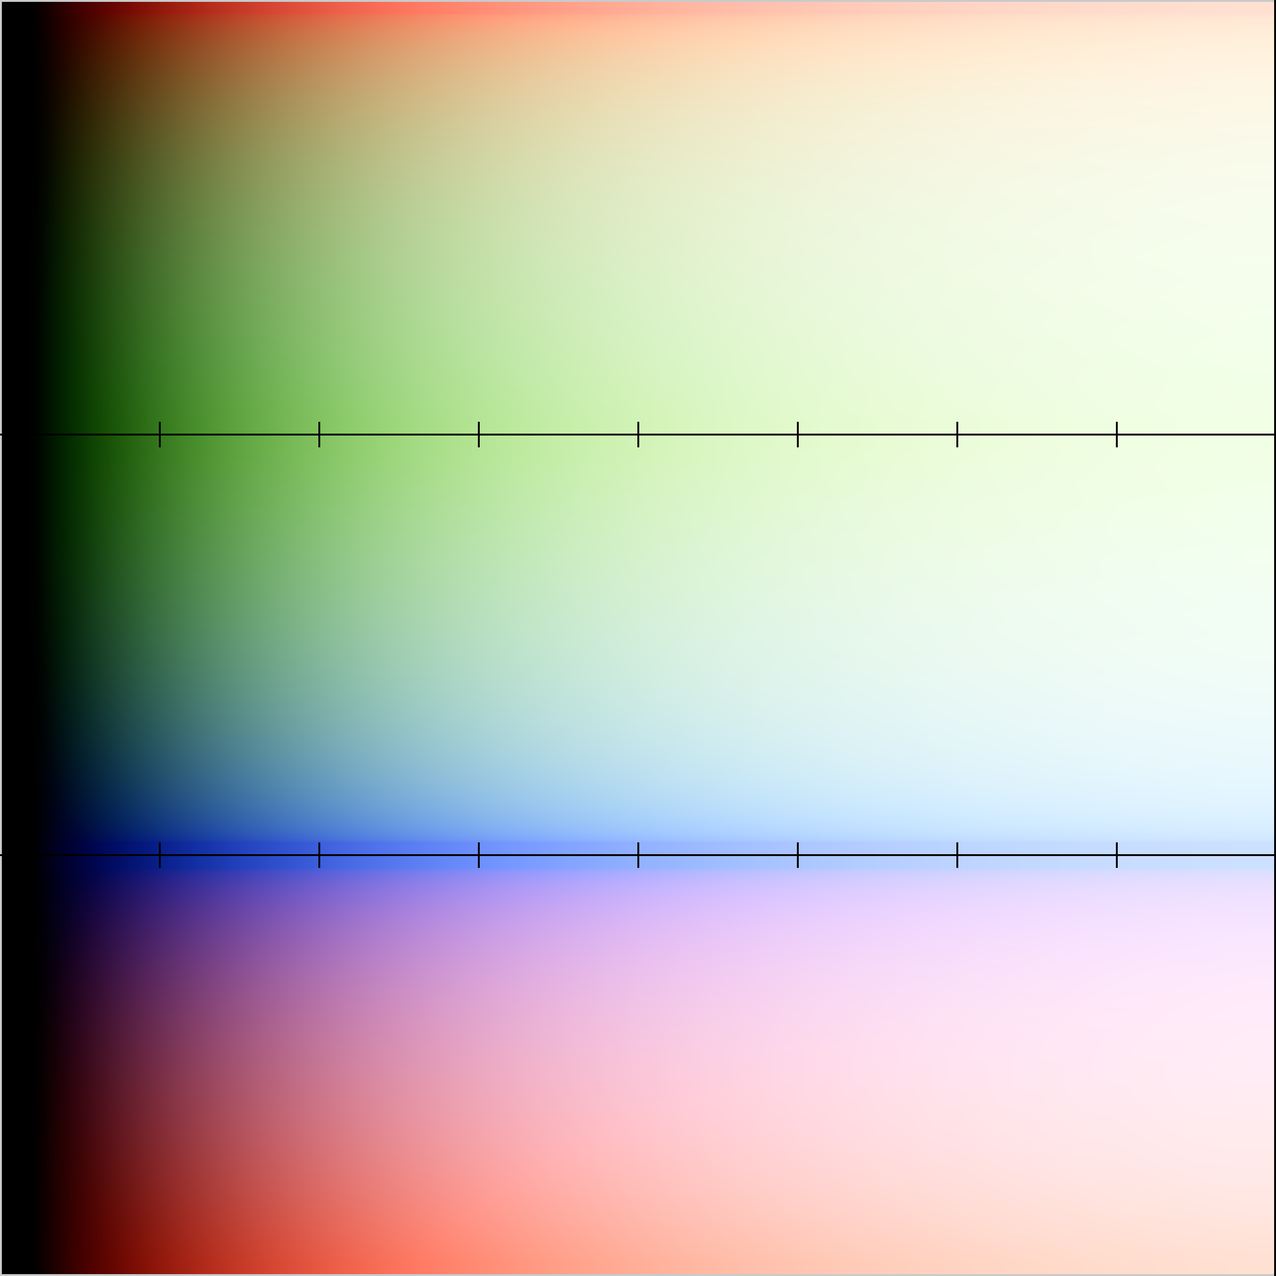
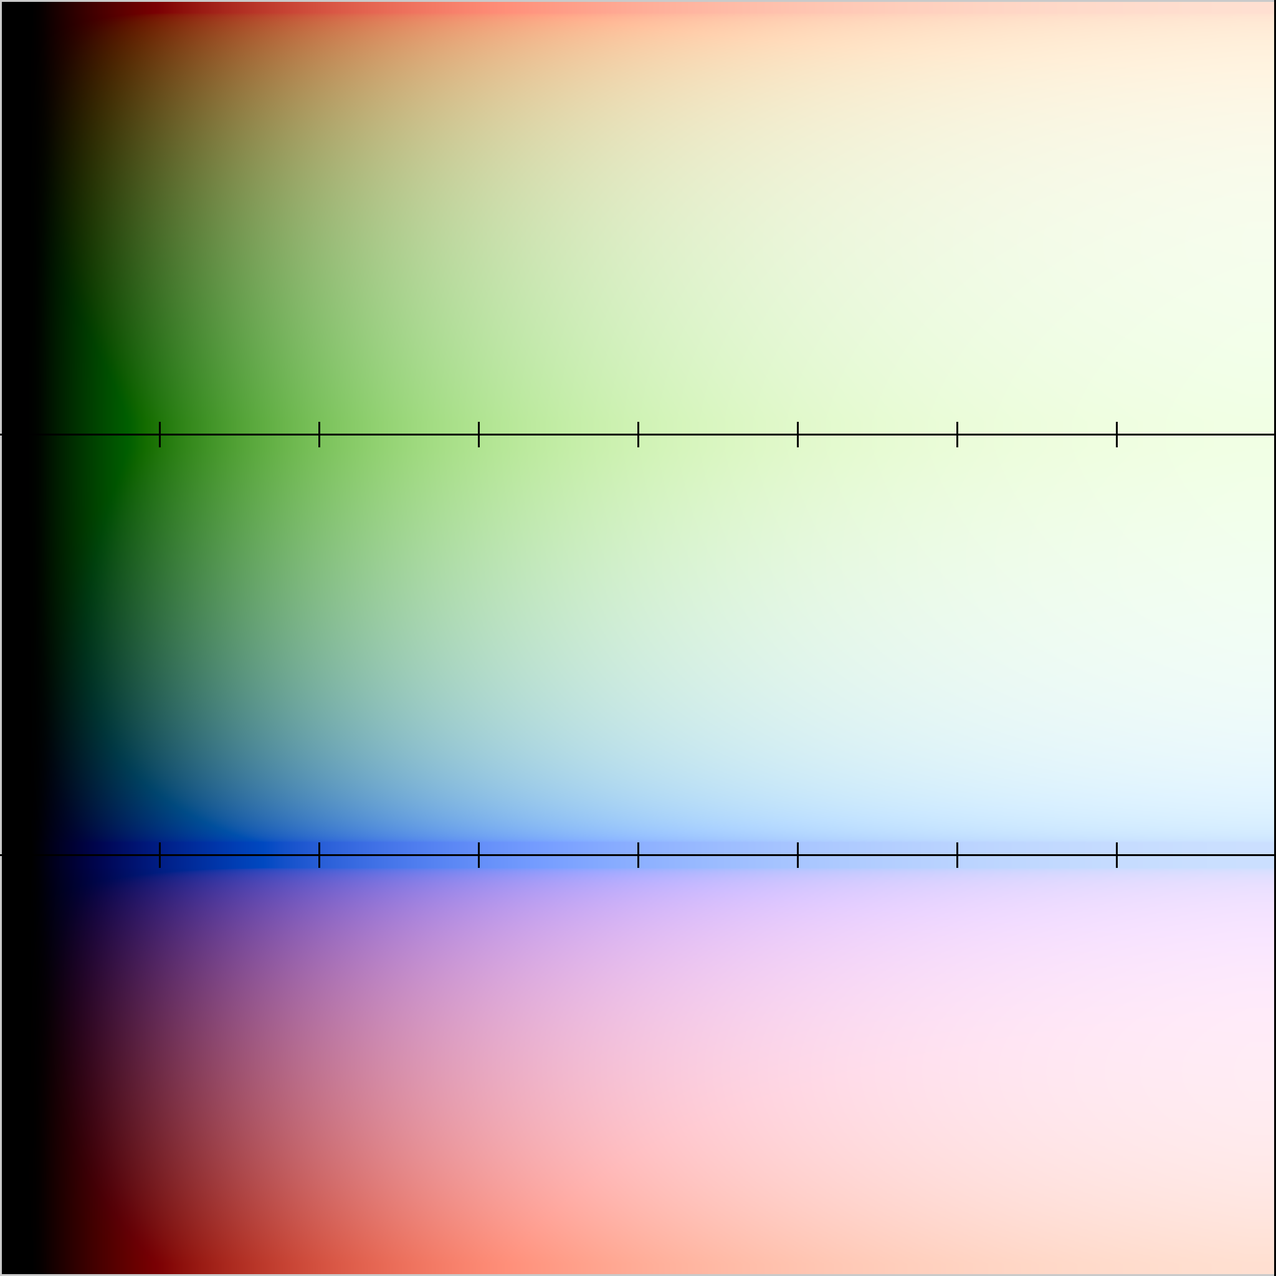
Regenerated with new AgX implementation 3f2b9436b1563a408ebc8fe41fdb164d147760d7

Changed region(s): [[0.0625, 0.2812, 0.125, 0.4062], [0.125, 0.625, 0.25, 0.6875]]

diff --git a/README.md b/README.md
@@ -28,55 +28,42 @@ These files were created with Photoshop to show a spread of all RGB colours at d
 | B002C016_220405_B09C.00796<br>**Standard vs. Linear_w1.0** | [blender_Standard_B002C016_220405_B09C.00796](https://github.com/allenwp/godot-tonemap-comparison/raw/refs/heads/main/sdr_renders/blender-4.2.2-lts/B002C016_220405_B09C.00796/blender_Standard_B002C016_220405_B09C.00796.webp) | [godot_Linear_w1.0_B002C016_220405_B09C.00796](https://github.com/allenwp/godot-tonemap-comparison/raw/refs/heads/main/sdr_renders/godot/B002C016_220405_B09C.00796/godot_Linear_w1.0_B002C016_220405_B09C.00796.webp)
 | B002C016_220405_B09C.00796<br>**Filmic vs. Filmic_w6.0** | [blender_Filmic_B002C016_220405_B09C.00796](https://github.com/allenwp/godot-tonemap-comparison/raw/refs/heads/main/sdr_renders/blender-4.2.2-lts/B002C016_220405_B09C.00796/blender_Filmic_B002C016_220405_B09C.00796.webp) | [godot_Filmic_w6.0_B002C016_220405_B09C.00796](https://github.com/allenwp/godot-tonemap-comparison/raw/refs/heads/main/sdr_renders/godot/B002C016_220405_B09C.00796/godot_Filmic_w6.0_B002C016_220405_B09C.00796.webp)
 | B002C016_220405_B09C.00796<br>**AgX vs. AgX_w1.0** | [blender_AgX_B002C016_220405_B09C.00796](https://github.com/allenwp/godot-tonemap-comparison/raw/refs/heads/main/sdr_renders/blender-4.2.2-lts/B002C016_220405_B09C.00796/blender_AgX_B002C016_220405_B09C.00796.webp) | [godot_AgX_w1.0_B002C016_220405_B09C.00796](https://github.com/allenwp/godot-tonemap-comparison/raw/refs/heads/main/sdr_renders/godot/B002C016_220405_B09C.00796/godot_AgX_w1.0_B002C016_220405_B09C.00796.webp)
-| B002C016_220405_B09C.00796<br>**AgX_Punchy vs. AgX_Punchy_w1.0** | [blender_AgX_Punchy_B002C016_220405_B09C.00796](https://github.com/allenwp/godot-tonemap-comparison/raw/refs/heads/main/sdr_renders/blender-4.2.2-lts/B002C016_220405_B09C.00796/blender_AgX_Punchy_B002C016_220405_B09C.00796.webp) | [godot_AgX_Punchy_w1.0_B002C016_220405_B09C.00796](https://github.com/allenwp/godot-tonemap-comparison/raw/refs/heads/main/sdr_renders/godot/B002C016_220405_B09C.00796/godot_AgX_Punchy_w1.0_B002C016_220405_B09C.00796.webp)
 | Matas_Alexa_Mini_sample_BT709<br>**Standard vs. Linear_w1.0** | [blender_Standard_Matas_Alexa_Mini_sample_BT709](https://github.com/allenwp/godot-tonemap-comparison/raw/refs/heads/main/sdr_renders/blender-4.2.2-lts/Matas_Alexa_Mini_sample_BT709/blender_Standard_Matas_Alexa_Mini_sample_BT709.webp) | [godot_Linear_w1.0_Matas_Alexa_Mini_sample_BT709](https://github.com/allenwp/godot-tonemap-comparison/raw/refs/heads/main/sdr_renders/godot/Matas_Alexa_Mini_sample_BT709/godot_Linear_w1.0_Matas_Alexa_Mini_sample_BT709.webp)
 | Matas_Alexa_Mini_sample_BT709<br>**Filmic vs. Filmic_w6.0** | [blender_Filmic_Matas_Alexa_Mini_sample_BT709](https://github.com/allenwp/godot-tonemap-comparison/raw/refs/heads/main/sdr_renders/blender-4.2.2-lts/Matas_Alexa_Mini_sample_BT709/blender_Filmic_Matas_Alexa_Mini_sample_BT709.webp) | [godot_Filmic_w6.0_Matas_Alexa_Mini_sample_BT709](https://github.com/allenwp/godot-tonemap-comparison/raw/refs/heads/main/sdr_renders/godot/Matas_Alexa_Mini_sample_BT709/godot_Filmic_w6.0_Matas_Alexa_Mini_sample_BT709.webp)
 | Matas_Alexa_Mini_sample_BT709<br>**AgX vs. AgX_w1.0** | [blender_AgX_Matas_Alexa_Mini_sample_BT709](https://github.com/allenwp/godot-tonemap-comparison/raw/refs/heads/main/sdr_renders/blender-4.2.2-lts/Matas_Alexa_Mini_sample_BT709/blender_AgX_Matas_Alexa_Mini_sample_BT709.webp) | [godot_AgX_w1.0_Matas_Alexa_Mini_sample_BT709](https://github.com/allenwp/godot-tonemap-comparison/raw/refs/heads/main/sdr_renders/godot/Matas_Alexa_Mini_sample_BT709/godot_AgX_w1.0_Matas_Alexa_Mini_sample_BT709.webp)
-| Matas_Alexa_Mini_sample_BT709<br>**AgX_Punchy vs. AgX_Punchy_w1.0** | [blender_AgX_Punchy_Matas_Alexa_Mini_sample_BT709](https://github.com/allenwp/godot-tonemap-comparison/raw/refs/heads/main/sdr_renders/blender-4.2.2-lts/Matas_Alexa_Mini_sample_BT709/blender_AgX_Punchy_Matas_Alexa_Mini_sample_BT709.webp) | [godot_AgX_Punchy_w1.0_Matas_Alexa_Mini_sample_BT709](https://github.com/allenwp/godot-tonemap-comparison/raw/refs/heads/main/sdr_renders/godot/Matas_Alexa_Mini_sample_BT709/godot_AgX_Punchy_w1.0_Matas_Alexa_Mini_sample_BT709.webp)
 | red_xmas_rec709<br>**Standard vs. Linear_w1.0** | [blender_Standard_red_xmas_rec709](https://github.com/allenwp/godot-tonemap-comparison/raw/refs/heads/main/sdr_renders/blender-4.2.2-lts/red_xmas_rec709/blender_Standard_red_xmas_rec709.webp) | [godot_Linear_w1.0_red_xmas_rec709](https://github.com/allenwp/godot-tonemap-comparison/raw/refs/heads/main/sdr_renders/godot/red_xmas_rec709/godot_Linear_w1.0_red_xmas_rec709.webp)
 | red_xmas_rec709<br>**Filmic vs. Filmic_w6.0** | [blender_Filmic_red_xmas_rec709](https://github.com/allenwp/godot-tonemap-comparison/raw/refs/heads/main/sdr_renders/blender-4.2.2-lts/red_xmas_rec709/blender_Filmic_red_xmas_rec709.webp) | [godot_Filmic_w6.0_red_xmas_rec709](https://github.com/allenwp/godot-tonemap-comparison/raw/refs/heads/main/sdr_renders/godot/red_xmas_rec709/godot_Filmic_w6.0_red_xmas_rec709.webp)
 | red_xmas_rec709<br>**AgX vs. AgX_w1.0** | [blender_AgX_red_xmas_rec709](https://github.com/allenwp/godot-tonemap-comparison/raw/refs/heads/main/sdr_renders/blender-4.2.2-lts/red_xmas_rec709/blender_AgX_red_xmas_rec709.webp) | [godot_AgX_w1.0_red_xmas_rec709](https://github.com/allenwp/godot-tonemap-comparison/raw/refs/heads/main/sdr_renders/godot/red_xmas_rec709/godot_AgX_w1.0_red_xmas_rec709.webp)
-| red_xmas_rec709<br>**AgX_Punchy vs. AgX_Punchy_w1.0** | [blender_AgX_Punchy_red_xmas_rec709](https://github.com/allenwp/godot-tonemap-comparison/raw/refs/heads/main/sdr_renders/blender-4.2.2-lts/red_xmas_rec709/blender_AgX_Punchy_red_xmas_rec709.webp) | [godot_AgX_Punchy_w1.0_red_xmas_rec709](https://github.com/allenwp/godot-tonemap-comparison/raw/refs/heads/main/sdr_renders/godot/red_xmas_rec709/godot_AgX_Punchy_w1.0_red_xmas_rec709.webp)
 | Max1Saturation100<br>**Standard vs. Linear_w1.0** | [blender_Standard_Max1Saturation100](https://github.com/allenwp/godot-tonemap-comparison/raw/refs/heads/main/sdr_renders/blender-4.2.2-lts/Max1Saturation100/blender_Standard_Max1Saturation100.webp) | [godot_Linear_w1.0_Max1Saturation100](https://github.com/allenwp/godot-tonemap-comparison/raw/refs/heads/main/sdr_renders/godot/Max1Saturation100/godot_Linear_w1.0_Max1Saturation100.webp)
 | Max1Saturation100<br>**Filmic vs. Filmic_w6.0** | [blender_Filmic_Max1Saturation100](https://github.com/allenwp/godot-tonemap-comparison/raw/refs/heads/main/sdr_renders/blender-4.2.2-lts/Max1Saturation100/blender_Filmic_Max1Saturation100.webp) | [godot_Filmic_w6.0_Max1Saturation100](https://github.com/allenwp/godot-tonemap-comparison/raw/refs/heads/main/sdr_renders/godot/Max1Saturation100/godot_Filmic_w6.0_Max1Saturation100.webp)
 | Max1Saturation100<br>**AgX vs. AgX_w1.0** | [blender_AgX_Max1Saturation100](https://github.com/allenwp/godot-tonemap-comparison/raw/refs/heads/main/sdr_renders/blender-4.2.2-lts/Max1Saturation100/blender_AgX_Max1Saturation100.webp) | [godot_AgX_w1.0_Max1Saturation100](https://github.com/allenwp/godot-tonemap-comparison/raw/refs/heads/main/sdr_renders/godot/Max1Saturation100/godot_AgX_w1.0_Max1Saturation100.webp)
-| Max1Saturation100<br>**AgX_Punchy vs. AgX_Punchy_w1.0** | [blender_AgX_Punchy_Max1Saturation100](https://github.com/allenwp/godot-tonemap-comparison/raw/refs/heads/main/sdr_renders/blender-4.2.2-lts/Max1Saturation100/blender_AgX_Punchy_Max1Saturation100.webp) | [godot_AgX_Punchy_w1.0_Max1Saturation100](https://github.com/allenwp/godot-tonemap-comparison/raw/refs/heads/main/sdr_renders/godot/Max1Saturation100/godot_AgX_Punchy_w1.0_Max1Saturation100.webp)
 | Max1Saturation75<br>**Standard vs. Linear_w1.0** | [blender_Standard_Max1Saturation75](https://github.com/allenwp/godot-tonemap-comparison/raw/refs/heads/main/sdr_renders/blender-4.2.2-lts/Max1Saturation75/blender_Standard_Max1Saturation75.webp) | [godot_Linear_w1.0_Max1Saturation75](https://github.com/allenwp/godot-tonemap-comparison/raw/refs/heads/main/sdr_renders/godot/Max1Saturation75/godot_Linear_w1.0_Max1Saturation75.webp)
 | Max1Saturation75<br>**Filmic vs. Filmic_w6.0** | [blender_Filmic_Max1Saturation75](https://github.com/allenwp/godot-tonemap-comparison/raw/refs/heads/main/sdr_renders/blender-4.2.2-lts/Max1Saturation75/blender_Filmic_Max1Saturation75.webp) | [godot_Filmic_w6.0_Max1Saturation75](https://github.com/allenwp/godot-tonemap-comparison/raw/refs/heads/main/sdr_renders/godot/Max1Saturation75/godot_Filmic_w6.0_Max1Saturation75.webp)
 | Max1Saturation75<br>**AgX vs. AgX_w1.0** | [blender_AgX_Max1Saturation75](https://github.com/allenwp/godot-tonemap-comparison/raw/refs/heads/main/sdr_renders/blender-4.2.2-lts/Max1Saturation75/blender_AgX_Max1Saturation75.webp) | [godot_AgX_w1.0_Max1Saturation75](https://github.com/allenwp/godot-tonemap-comparison/raw/refs/heads/main/sdr_renders/godot/Max1Saturation75/godot_AgX_w1.0_Max1Saturation75.webp)
-| Max1Saturation75<br>**AgX_Punchy vs. AgX_Punchy_w1.0** | [blender_AgX_Punchy_Max1Saturation75](https://github.com/allenwp/godot-tonemap-comparison/raw/refs/heads/main/sdr_renders/blender-4.2.2-lts/Max1Saturation75/blender_AgX_Punchy_Max1Saturation75.webp) | [godot_AgX_Punchy_w1.0_Max1Saturation75](https://github.com/allenwp/godot-tonemap-comparison/raw/refs/heads/main/sdr_renders/godot/Max1Saturation75/godot_AgX_Punchy_w1.0_Max1Saturation75.webp)
 | Max1Saturation50<br>**Standard vs. Linear_w1.0** | [blender_Standard_Max1Saturation50](https://github.com/allenwp/godot-tonemap-comparison/raw/refs/heads/main/sdr_renders/blender-4.2.2-lts/Max1Saturation50/blender_Standard_Max1Saturation50.webp) | [godot_Linear_w1.0_Max1Saturation50](https://github.com/allenwp/godot-tonemap-comparison/raw/refs/heads/main/sdr_renders/godot/Max1Saturation50/godot_Linear_w1.0_Max1Saturation50.webp)
 | Max1Saturation50<br>**Filmic vs. Filmic_w6.0** | [blender_Filmic_Max1Saturation50](https://github.com/allenwp/godot-tonemap-comparison/raw/refs/heads/main/sdr_renders/blender-4.2.2-lts/Max1Saturation50/blender_Filmic_Max1Saturation50.webp) | [godot_Filmic_w6.0_Max1Saturation50](https://github.com/allenwp/godot-tonemap-comparison/raw/refs/heads/main/sdr_renders/godot/Max1Saturation50/godot_Filmic_w6.0_Max1Saturation50.webp)
 | Max1Saturation50<br>**AgX vs. AgX_w1.0** | [blender_AgX_Max1Saturation50](https://github.com/allenwp/godot-tonemap-comparison/raw/refs/heads/main/sdr_renders/blender-4.2.2-lts/Max1Saturation50/blender_AgX_Max1Saturation50.webp) | [godot_AgX_w1.0_Max1Saturation50](https://github.com/allenwp/godot-tonemap-comparison/raw/refs/heads/main/sdr_renders/godot/Max1Saturation50/godot_AgX_w1.0_Max1Saturation50.webp)
-| Max1Saturation50<br>**AgX_Punchy vs. AgX_Punchy_w1.0** | [blender_AgX_Punchy_Max1Saturation50](https://github.com/allenwp/godot-tonemap-comparison/raw/refs/heads/main/sdr_renders/blender-4.2.2-lts/Max1Saturation50/blender_AgX_Punchy_Max1Saturation50.webp) | [godot_AgX_Punchy_w1.0_Max1Saturation50](https://github.com/allenwp/godot-tonemap-comparison/raw/refs/heads/main/sdr_renders/godot/Max1Saturation50/godot_AgX_Punchy_w1.0_Max1Saturation50.webp)
 | Max1Saturation25<br>**Standard vs. Linear_w1.0** | [blender_Standard_Max1Saturation25](https://github.com/allenwp/godot-tonemap-comparison/raw/refs/heads/main/sdr_renders/blender-4.2.2-lts/Max1Saturation25/blender_Standard_Max1Saturation25.webp) | [godot_Linear_w1.0_Max1Saturation25](https://github.com/allenwp/godot-tonemap-comparison/raw/refs/heads/main/sdr_renders/godot/Max1Saturation25/godot_Linear_w1.0_Max1Saturation25.webp)
 | Max1Saturation25<br>**Filmic vs. Filmic_w6.0** | [blender_Filmic_Max1Saturation25](https://github.com/allenwp/godot-tonemap-comparison/raw/refs/heads/main/sdr_renders/blender-4.2.2-lts/Max1Saturation25/blender_Filmic_Max1Saturation25.webp) | [godot_Filmic_w6.0_Max1Saturation25](https://github.com/allenwp/godot-tonemap-comparison/raw/refs/heads/main/sdr_renders/godot/Max1Saturation25/godot_Filmic_w6.0_Max1Saturation25.webp)
 | Max1Saturation25<br>**AgX vs. AgX_w1.0** | [blender_AgX_Max1Saturation25](https://github.com/allenwp/godot-tonemap-comparison/raw/refs/heads/main/sdr_renders/blender-4.2.2-lts/Max1Saturation25/blender_AgX_Max1Saturation25.webp) | [godot_AgX_w1.0_Max1Saturation25](https://github.com/allenwp/godot-tonemap-comparison/raw/refs/heads/main/sdr_renders/godot/Max1Saturation25/godot_AgX_w1.0_Max1Saturation25.webp)
-| Max1Saturation25<br>**AgX_Punchy vs. AgX_Punchy_w1.0** | [blender_AgX_Punchy_Max1Saturation25](https://github.com/allenwp/godot-tonemap-comparison/raw/refs/heads/main/sdr_renders/blender-4.2.2-lts/Max1Saturation25/blender_AgX_Punchy_Max1Saturation25.webp) | [godot_AgX_Punchy_w1.0_Max1Saturation25](https://github.com/allenwp/godot-tonemap-comparison/raw/refs/heads/main/sdr_renders/godot/Max1Saturation25/godot_AgX_Punchy_w1.0_Max1Saturation25.webp)
 | Max1Saturation0<br>**Standard vs. Linear_w1.0** | [blender_Standard_Max1Saturation0](https://github.com/allenwp/godot-tonemap-comparison/raw/refs/heads/main/sdr_renders/blender-4.2.2-lts/Max1Saturation0/blender_Standard_Max1Saturation0.webp) | [godot_Linear_w1.0_Max1Saturation0](https://github.com/allenwp/godot-tonemap-comparison/raw/refs/heads/main/sdr_renders/godot/Max1Saturation0/godot_Linear_w1.0_Max1Saturation0.webp)
 | Max1Saturation0<br>**Filmic vs. Filmic_w6.0** | [blender_Filmic_Max1Saturation0](https://github.com/allenwp/godot-tonemap-comparison/raw/refs/heads/main/sdr_renders/blender-4.2.2-lts/Max1Saturation0/blender_Filmic_Max1Saturation0.webp) | [godot_Filmic_w6.0_Max1Saturation0](https://github.com/allenwp/godot-tonemap-comparison/raw/refs/heads/main/sdr_renders/godot/Max1Saturation0/godot_Filmic_w6.0_Max1Saturation0.webp)
 | Max1Saturation0<br>**AgX vs. AgX_w1.0** | [blender_AgX_Max1Saturation0](https://github.com/allenwp/godot-tonemap-comparison/raw/refs/heads/main/sdr_renders/blender-4.2.2-lts/Max1Saturation0/blender_AgX_Max1Saturation0.webp) | [godot_AgX_w1.0_Max1Saturation0](https://github.com/allenwp/godot-tonemap-comparison/raw/refs/heads/main/sdr_renders/godot/Max1Saturation0/godot_AgX_w1.0_Max1Saturation0.webp)
-| Max1Saturation0<br>**AgX_Punchy vs. AgX_Punchy_w1.0** | [blender_AgX_Punchy_Max1Saturation0](https://github.com/allenwp/godot-tonemap-comparison/raw/refs/heads/main/sdr_renders/blender-4.2.2-lts/Max1Saturation0/blender_AgX_Punchy_Max1Saturation0.webp) | [godot_AgX_Punchy_w1.0_Max1Saturation0](https://github.com/allenwp/godot-tonemap-comparison/raw/refs/heads/main/sdr_renders/godot/Max1Saturation0/godot_AgX_Punchy_w1.0_Max1Saturation0.webp)
 | Max18Saturation100<br>**Standard vs. Linear_w1.0** | [blender_Standard_Max18Saturation100](https://github.com/allenwp/godot-tonemap-comparison/raw/refs/heads/main/sdr_renders/blender-4.2.2-lts/Max18Saturation100/blender_Standard_Max18Saturation100.webp) | [godot_Linear_w1.0_Max18Saturation100](https://github.com/allenwp/godot-tonemap-comparison/raw/refs/heads/main/sdr_renders/godot/Max18Saturation100/godot_Linear_w1.0_Max18Saturation100.webp)
 | Max18Saturation100<br>**Filmic vs. Filmic_w6.0** | [blender_Filmic_Max18Saturation100](https://github.com/allenwp/godot-tonemap-comparison/raw/refs/heads/main/sdr_renders/blender-4.2.2-lts/Max18Saturation100/blender_Filmic_Max18Saturation100.webp) | [godot_Filmic_w6.0_Max18Saturation100](https://github.com/allenwp/godot-tonemap-comparison/raw/refs/heads/main/sdr_renders/godot/Max18Saturation100/godot_Filmic_w6.0_Max18Saturation100.webp)
 | Max18Saturation100<br>**AgX vs. AgX_w1.0** | [blender_AgX_Max18Saturation100](https://github.com/allenwp/godot-tonemap-comparison/raw/refs/heads/main/sdr_renders/blender-4.2.2-lts/Max18Saturation100/blender_AgX_Max18Saturation100.webp) | [godot_AgX_w1.0_Max18Saturation100](https://github.com/allenwp/godot-tonemap-comparison/raw/refs/heads/main/sdr_renders/godot/Max18Saturation100/godot_AgX_w1.0_Max18Saturation100.webp)
-| Max18Saturation100<br>**AgX_Punchy vs. AgX_Punchy_w1.0** | [blender_AgX_Punchy_Max18Saturation100](https://github.com/allenwp/godot-tonemap-comparison/raw/refs/heads/main/sdr_renders/blender-4.2.2-lts/Max18Saturation100/blender_AgX_Punchy_Max18Saturation100.webp) | [godot_AgX_Punchy_w1.0_Max18Saturation100](https://github.com/allenwp/godot-tonemap-comparison/raw/refs/heads/main/sdr_renders/godot/Max18Saturation100/godot_AgX_Punchy_w1.0_Max18Saturation100.webp)
 | Max18Saturation75<br>**Standard vs. Linear_w1.0** | [blender_Standard_Max18Saturation75](https://github.com/allenwp/godot-tonemap-comparison/raw/refs/heads/main/sdr_renders/blender-4.2.2-lts/Max18Saturation75/blender_Standard_Max18Saturation75.webp) | [godot_Linear_w1.0_Max18Saturation75](https://github.com/allenwp/godot-tonemap-comparison/raw/refs/heads/main/sdr_renders/godot/Max18Saturation75/godot_Linear_w1.0_Max18Saturation75.webp)
 | Max18Saturation75<br>**Filmic vs. Filmic_w6.0** | [blender_Filmic_Max18Saturation75](https://github.com/allenwp/godot-tonemap-comparison/raw/refs/heads/main/sdr_renders/blender-4.2.2-lts/Max18Saturation75/blender_Filmic_Max18Saturation75.webp) | [godot_Filmic_w6.0_Max18Saturation75](https://github.com/allenwp/godot-tonemap-comparison/raw/refs/heads/main/sdr_renders/godot/Max18Saturation75/godot_Filmic_w6.0_Max18Saturation75.webp)
 | Max18Saturation75<br>**AgX vs. AgX_w1.0** | [blender_AgX_Max18Saturation75](https://github.com/allenwp/godot-tonemap-comparison/raw/refs/heads/main/sdr_renders/blender-4.2.2-lts/Max18Saturation75/blender_AgX_Max18Saturation75.webp) | [godot_AgX_w1.0_Max18Saturation75](https://github.com/allenwp/godot-tonemap-comparison/raw/refs/heads/main/sdr_renders/godot/Max18Saturation75/godot_AgX_w1.0_Max18Saturation75.webp)
-| Max18Saturation75<br>**AgX_Punchy vs. AgX_Punchy_w1.0** | [blender_AgX_Punchy_Max18Saturation75](https://github.com/allenwp/godot-tonemap-comparison/raw/refs/heads/main/sdr_renders/blender-4.2.2-lts/Max18Saturation75/blender_AgX_Punchy_Max18Saturation75.webp) | [godot_AgX_Punchy_w1.0_Max18Saturation75](https://github.com/allenwp/godot-tonemap-comparison/raw/refs/heads/main/sdr_renders/godot/Max18Saturation75/godot_AgX_Punchy_w1.0_Max18Saturation75.webp)
 | Max18Saturation50<br>**Standard vs. Linear_w1.0** | [blender_Standard_Max18Saturation50](https://github.com/allenwp/godot-tonemap-comparison/raw/refs/heads/main/sdr_renders/blender-4.2.2-lts/Max18Saturation50/blender_Standard_Max18Saturation50.webp) | [godot_Linear_w1.0_Max18Saturation50](https://github.com/allenwp/godot-tonemap-comparison/raw/refs/heads/main/sdr_renders/godot/Max18Saturation50/godot_Linear_w1.0_Max18Saturation50.webp)
 | Max18Saturation50<br>**Filmic vs. Filmic_w6.0** | [blender_Filmic_Max18Saturation50](https://github.com/allenwp/godot-tonemap-comparison/raw/refs/heads/main/sdr_renders/blender-4.2.2-lts/Max18Saturation50/blender_Filmic_Max18Saturation50.webp) | [godot_Filmic_w6.0_Max18Saturation50](https://github.com/allenwp/godot-tonemap-comparison/raw/refs/heads/main/sdr_renders/godot/Max18Saturation50/godot_Filmic_w6.0_Max18Saturation50.webp)
 | Max18Saturation50<br>**AgX vs. AgX_w1.0** | [blender_AgX_Max18Saturation50](https://github.com/allenwp/godot-tonemap-comparison/raw/refs/heads/main/sdr_renders/blender-4.2.2-lts/Max18Saturation50/blender_AgX_Max18Saturation50.webp) | [godot_AgX_w1.0_Max18Saturation50](https://github.com/allenwp/godot-tonemap-comparison/raw/refs/heads/main/sdr_renders/godot/Max18Saturation50/godot_AgX_w1.0_Max18Saturation50.webp)
-| Max18Saturation50<br>**AgX_Punchy vs. AgX_Punchy_w1.0** | [blender_AgX_Punchy_Max18Saturation50](https://github.com/allenwp/godot-tonemap-comparison/raw/refs/heads/main/sdr_renders/blender-4.2.2-lts/Max18Saturation50/blender_AgX_Punchy_Max18Saturation50.webp) | [godot_AgX_Punchy_w1.0_Max18Saturation50](https://github.com/allenwp/godot-tonemap-comparison/raw/refs/heads/main/sdr_renders/godot/Max18Saturation50/godot_AgX_Punchy_w1.0_Max18Saturation50.webp)
 | Max18Saturation25<br>**Standard vs. Linear_w1.0** | [blender_Standard_Max18Saturation25](https://github.com/allenwp/godot-tonemap-comparison/raw/refs/heads/main/sdr_renders/blender-4.2.2-lts/Max18Saturation25/blender_Standard_Max18Saturation25.webp) | [godot_Linear_w1.0_Max18Saturation25](https://github.com/allenwp/godot-tonemap-comparison/raw/refs/heads/main/sdr_renders/godot/Max18Saturation25/godot_Linear_w1.0_Max18Saturation25.webp)
 | Max18Saturation25<br>**Filmic vs. Filmic_w6.0** | [blender_Filmic_Max18Saturation25](https://github.com/allenwp/godot-tonemap-comparison/raw/refs/heads/main/sdr_renders/blender-4.2.2-lts/Max18Saturation25/blender_Filmic_Max18Saturation25.webp) | [godot_Filmic_w6.0_Max18Saturation25](https://github.com/allenwp/godot-tonemap-comparison/raw/refs/heads/main/sdr_renders/godot/Max18Saturation25/godot_Filmic_w6.0_Max18Saturation25.webp)
 | Max18Saturation25<br>**AgX vs. AgX_w1.0** | [blender_AgX_Max18Saturation25](https://github.com/allenwp/godot-tonemap-comparison/raw/refs/heads/main/sdr_renders/blender-4.2.2-lts/Max18Saturation25/blender_AgX_Max18Saturation25.webp) | [godot_AgX_w1.0_Max18Saturation25](https://github.com/allenwp/godot-tonemap-comparison/raw/refs/heads/main/sdr_renders/godot/Max18Saturation25/godot_AgX_w1.0_Max18Saturation25.webp)
-| Max18Saturation25<br>**AgX_Punchy vs. AgX_Punchy_w1.0** | [blender_AgX_Punchy_Max18Saturation25](https://github.com/allenwp/godot-tonemap-comparison/raw/refs/heads/main/sdr_renders/blender-4.2.2-lts/Max18Saturation25/blender_AgX_Punchy_Max18Saturation25.webp) | [godot_AgX_Punchy_w1.0_Max18Saturation25](https://github.com/allenwp/godot-tonemap-comparison/raw/refs/heads/main/sdr_renders/godot/Max18Saturation25/godot_AgX_Punchy_w1.0_Max18Saturation25.webp)
 | Max18Saturation0<br>**Standard vs. Linear_w1.0** | [blender_Standard_Max18Saturation0](https://github.com/allenwp/godot-tonemap-comparison/raw/refs/heads/main/sdr_renders/blender-4.2.2-lts/Max18Saturation0/blender_Standard_Max18Saturation0.webp) | [godot_Linear_w1.0_Max18Saturation0](https://github.com/allenwp/godot-tonemap-comparison/raw/refs/heads/main/sdr_renders/godot/Max18Saturation0/godot_Linear_w1.0_Max18Saturation0.webp)
 | Max18Saturation0<br>**Filmic vs. Filmic_w6.0** | [blender_Filmic_Max18Saturation0](https://github.com/allenwp/godot-tonemap-comparison/raw/refs/heads/main/sdr_renders/blender-4.2.2-lts/Max18Saturation0/blender_Filmic_Max18Saturation0.webp) | [godot_Filmic_w6.0_Max18Saturation0](https://github.com/allenwp/godot-tonemap-comparison/raw/refs/heads/main/sdr_renders/godot/Max18Saturation0/godot_Filmic_w6.0_Max18Saturation0.webp)
 | Max18Saturation0<br>**AgX vs. AgX_w1.0** | [blender_AgX_Max18Saturation0](https://github.com/allenwp/godot-tonemap-comparison/raw/refs/heads/main/sdr_renders/blender-4.2.2-lts/Max18Saturation0/blender_AgX_Max18Saturation0.webp) | [godot_AgX_w1.0_Max18Saturation0](https://github.com/allenwp/godot-tonemap-comparison/raw/refs/heads/main/sdr_renders/godot/Max18Saturation0/godot_AgX_w1.0_Max18Saturation0.webp)
-| Max18Saturation0<br>**AgX_Punchy vs. AgX_Punchy_w1.0** | [blender_AgX_Punchy_Max18Saturation0](https://github.com/allenwp/godot-tonemap-comparison/raw/refs/heads/main/sdr_renders/blender-4.2.2-lts/Max18Saturation0/blender_AgX_Punchy_Max18Saturation0.webp) | [godot_AgX_Punchy_w1.0_Max18Saturation0](https://github.com/allenwp/godot-tonemap-comparison/raw/refs/heads/main/sdr_renders/godot/Max18Saturation0/godot_AgX_Punchy_w1.0_Max18Saturation0.webp)
 
 # Generating SDR Renders in Godot
 Simply run the main scene in the Godot project to generate SDR renders. A markdown table will also be output in the log with links to the images in this repo.

diff --git a/sdr_renders/godot/notes.md b/sdr_renders/godot/notes.md
@@ -7,9 +7,8 @@ godot_Linear_w1.0
 godot_Reinhard_w16.0
 ```
 
-The following were generated with v4.4.dev.gh-87260 [b310868d8] from the AgX PR https://github.com/godotengine/godot/pull/87260 commit c3647bfbcdf031dc9c942fd9734ba1f68f62931a on Oct 2:
+The following were generated with v4.4.dev.gh-87260 [32fbb1928] from the AgX PR https://github.com/godotengine/godot/pull/87260 commit 3f2b9436b1563a408ebc8fe41fdb164d147760d7 on Dec 11, 2024:
 
 ```
 godot_AgX_w1.0
-godot_AgX_Punchy_w1.0
 ```
